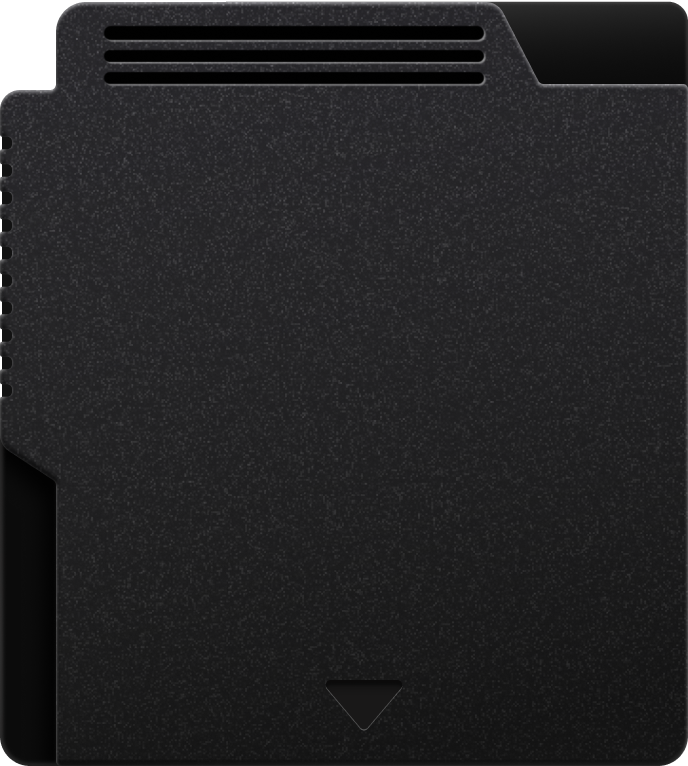
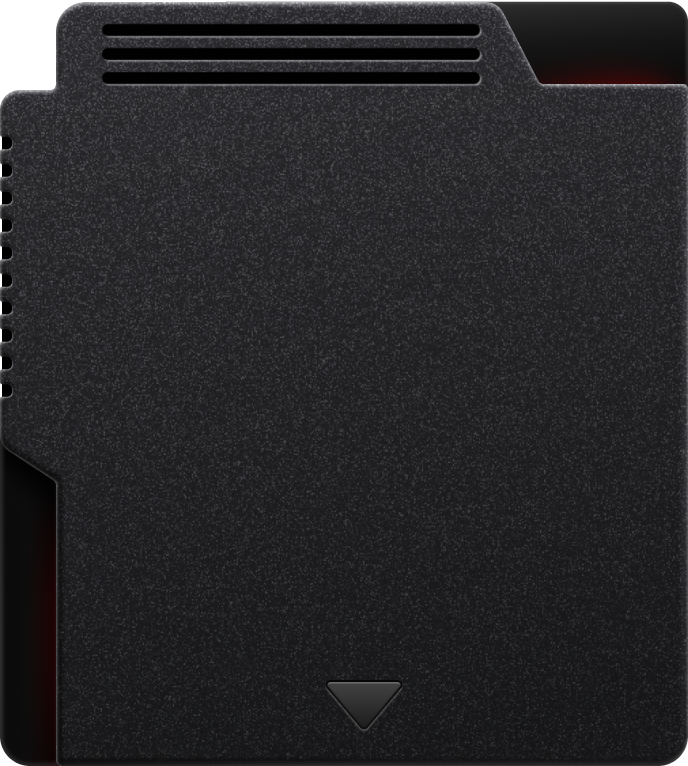
ga added

diff --git a/src/components/header.tsx b/src/components/header.tsx
@@ -45,8 +45,8 @@ const LogoWrapper = styled(Link)`
   img {
     max-width: 64px;
     transition: transform 1200ms ease;
-    filter: drop-shadow(1px 3px 1px rgba(0, 0, 0, 0.9))
-      drop-shadow(3px 2px 6px rgba(0, 0, 0, 0.5));
+    filter: drop-shadow(1px 3px 1px rgba(0, 0, 0, 0.4))
+      drop-shadow(3px 2px 6px rgba(0, 0, 0, 0.2));
     &:hover {
       transform: rotate(360deg);
     }
@@ -71,7 +71,7 @@ const HeaderText = styled.h1`
   background: linear-gradient(
     to right,
     #ffffff,
-    #818181
+    #696969
   ); /* Define the gradient colors */
   -webkit-background-clip: text; /* Safari/Chrome */
   -webkit-text-fill-color: transparent; /* Safari/Chrome */
@@ -95,20 +95,21 @@ const NavLink = styled(Link)`
 
 const Button = styled(Link)`
   font-size: 16px;
-  font-weight: 500;
+  font-weight: 600;
   border-radius: 15px;
-  padding: 10px 20px;
+  padding: 12px 24px;
   margin-top: 18px;
   display: flex;
   align-items: center;
   gap: 6px;
+  letter-spacing: -0.2px;
   background: linear-gradient(
     90deg,
     rgba(61, 61, 61, 0.5) 0%,
     rgba(45, 45, 45, 0.1) 100%
   );
-  box-shadow: 0px 2px 1px rgba(0, 0, 0, 0.25),
-    inset 0px 0px 1px rgba(255, 255, 255, 0.25);
+  box-shadow: 1px 2px 1px rgba(0, 0, 0, 0.3),
+    inset 0px 0px 1px 1px rgba(155, 155, 155, 0.25);
   border-radius: 12px;
   color: var(--primary-fg-color);
   font-family: var(--font-inter);

diff --git a/src/app/layout.tsx b/src/app/layout.tsx
@@ -5,6 +5,7 @@ import { Metadata } from "next";
 import localFont from "next/font/local";
 import { inter, jetBrainsMono } from "@/styles/fonts";
 import seoData from "@/lib/next-seo.config";
+import AnalyticsProvider from "@/lib/analytics";
 
 export const metadata = {
   metadataBase: new URL(seoData.openGraph.url),
@@ -58,7 +59,10 @@ export default function RootLayout({
   return (
     <html lang="en" className={`${jetBrainsMono.variable} ${inter.variable}`}>
       <body>
-        <StyledComponentsRegistry>{children}</StyledComponentsRegistry>
+        <StyledComponentsRegistry>
+          <AnalyticsProvider children={undefined} />
+          {children}
+        </StyledComponentsRegistry>
       </body>
     </html>
   );

diff --git a/src/styles/globals.scss b/src/styles/globals.scss
@@ -3,7 +3,7 @@
 :root {
 
   //colors
-  --primary-bg-color: #141416;
+  --primary-bg-color: #141415;
   --primary-fg-color: #ffffff;
   --primary-fg-text: rgba(200, 200, 200, 0.7);
   --primary-border-color: rgba(200, 200, 200, 9%);
@@ -28,6 +28,27 @@ body {
   min-height: 100vh;
   
 }
+
+::-webkit-scrollbar {
+  width: 6px;
+  height: 0px;
+}
+
+::-webkit-scrollbar-track {
+  padding: 0 1px;
+  background: var(--primary-bg-color);
+  border-left: 1px solid rgba(120,120,120,0.1);
+}
+
+::-webkit-scrollbar-thumb {
+  border-radius: 3px;
+  background: rgba(120,120,120,0.3);
+}
+
+::-webkit-scrollbar-thumb:hover {
+  background: #555;
+}
+
 
 main {
   min-height: 100vh;

diff --git a/src/app/(main)/page.tsx b/src/app/(main)/page.tsx
@@ -57,10 +57,10 @@ const Family = styled.div`
   position: fixed;
   display: flex;
   justify-content: right;
-  overflow: hidden;
   @media screen and (max-width: 500px) {
     position: relative;
     justify-content: center;
+    overflow: hidden;
   }
   .color {
     position: absolute;
@@ -77,7 +77,7 @@ const Family = styled.div`
     filter: blur(62px);
   }
   .wrap {
-    padding: 40px;
+    padding: 20px 40px;
     display: flex;
     align-items: end;
     flex-direction: column;

diff --git a/src/app/(main)/layout.tsx b/src/app/(main)/layout.tsx
@@ -30,15 +30,15 @@ const Main = styled.main`
     left: 50%;
     top: -50px;
     transform: translate(-50%, -50%);
-    height: 350px;
+    height: 250px;
     width: 800px;
     mix-blend-mode: color-dodge;
     border-radius: 50%;
     filter: blur(62px);
     background: linear-gradient(
       0deg,
-      rgba(25, 0, 255, 0.2) 0%,
-      rgba(255, 0, 0, 1) 100%
+      rgba(43, 0, 255, 0.415) 0%,
+      rgba(255, 0, 0, 0.8) 100%
     );
     z-index: -1;
     pointer-events: none;

diff --git a/src/components/PlguinComponent.tsx b/src/components/PlguinComponent.tsx
@@ -141,8 +141,8 @@ export const Wrapper = styled.div`
     font-size: 12px;
     text-transform: uppercase;
     letter-spacing: 3px;
-    color: #4e4e4e;
-    text-shadow: 0px 1px 1px #000000;
+    color: #606060;
+    text-shadow: 0px 1.5px 1px #000000;
   }
 `;
 
